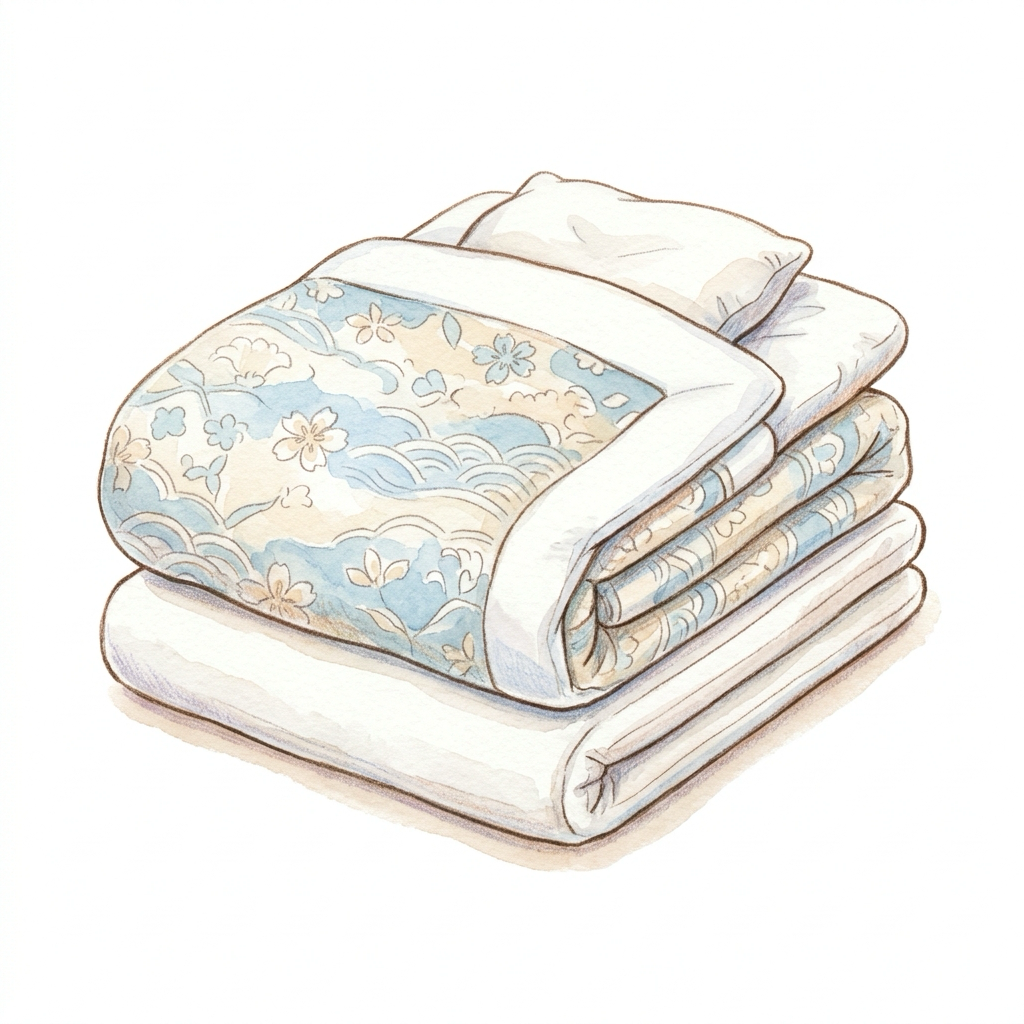
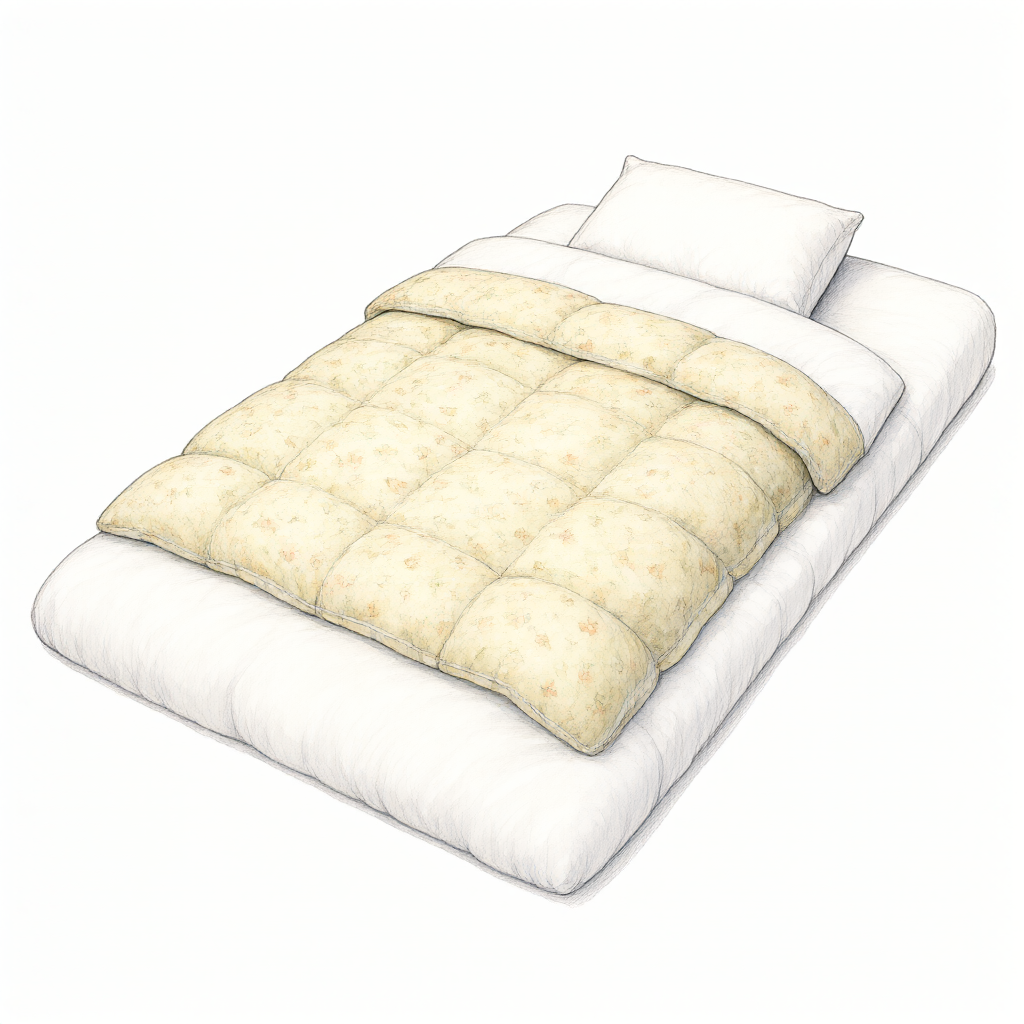
360

Changed region(s): [[0.0312, 0.1562, 1.0, 0.9062]]

diff --git a/youtube_360_viewer/index.html b/youtube_360_viewer/index.html
@@ -2063,8 +2063,10 @@
     }
 
     async function searchWithYouTubeDataApi(query, apiKey) {
-      const q = query.includes('360') ? query : `${query} 360`;
-      const url = `https://www.googleapis.com/youtube/v3/search?part=snippet&q=${encodeURIComponent(q)}&type=video&videoDimension=3d&maxResults=20&key=${encodeURIComponent(apiKey)}`;
+      let raw = (query || '').trim();
+      let q = raw.replace(/360[度°]?/g, '360').trim();
+      const cleanQ = q ? (q.includes('360') ? q : `${q} 360`) : '360';
+      const url = `https://www.googleapis.com/youtube/v3/search?part=snippet&q=${encodeURIComponent(cleanQ)}&type=video&videoDimension=3d&maxResults=20&key=${encodeURIComponent(apiKey)}`;
       const res = await fetch(url);
       if (!res.ok) throw new Error('API Error: ' + res.status);
       const data = await res.json();
